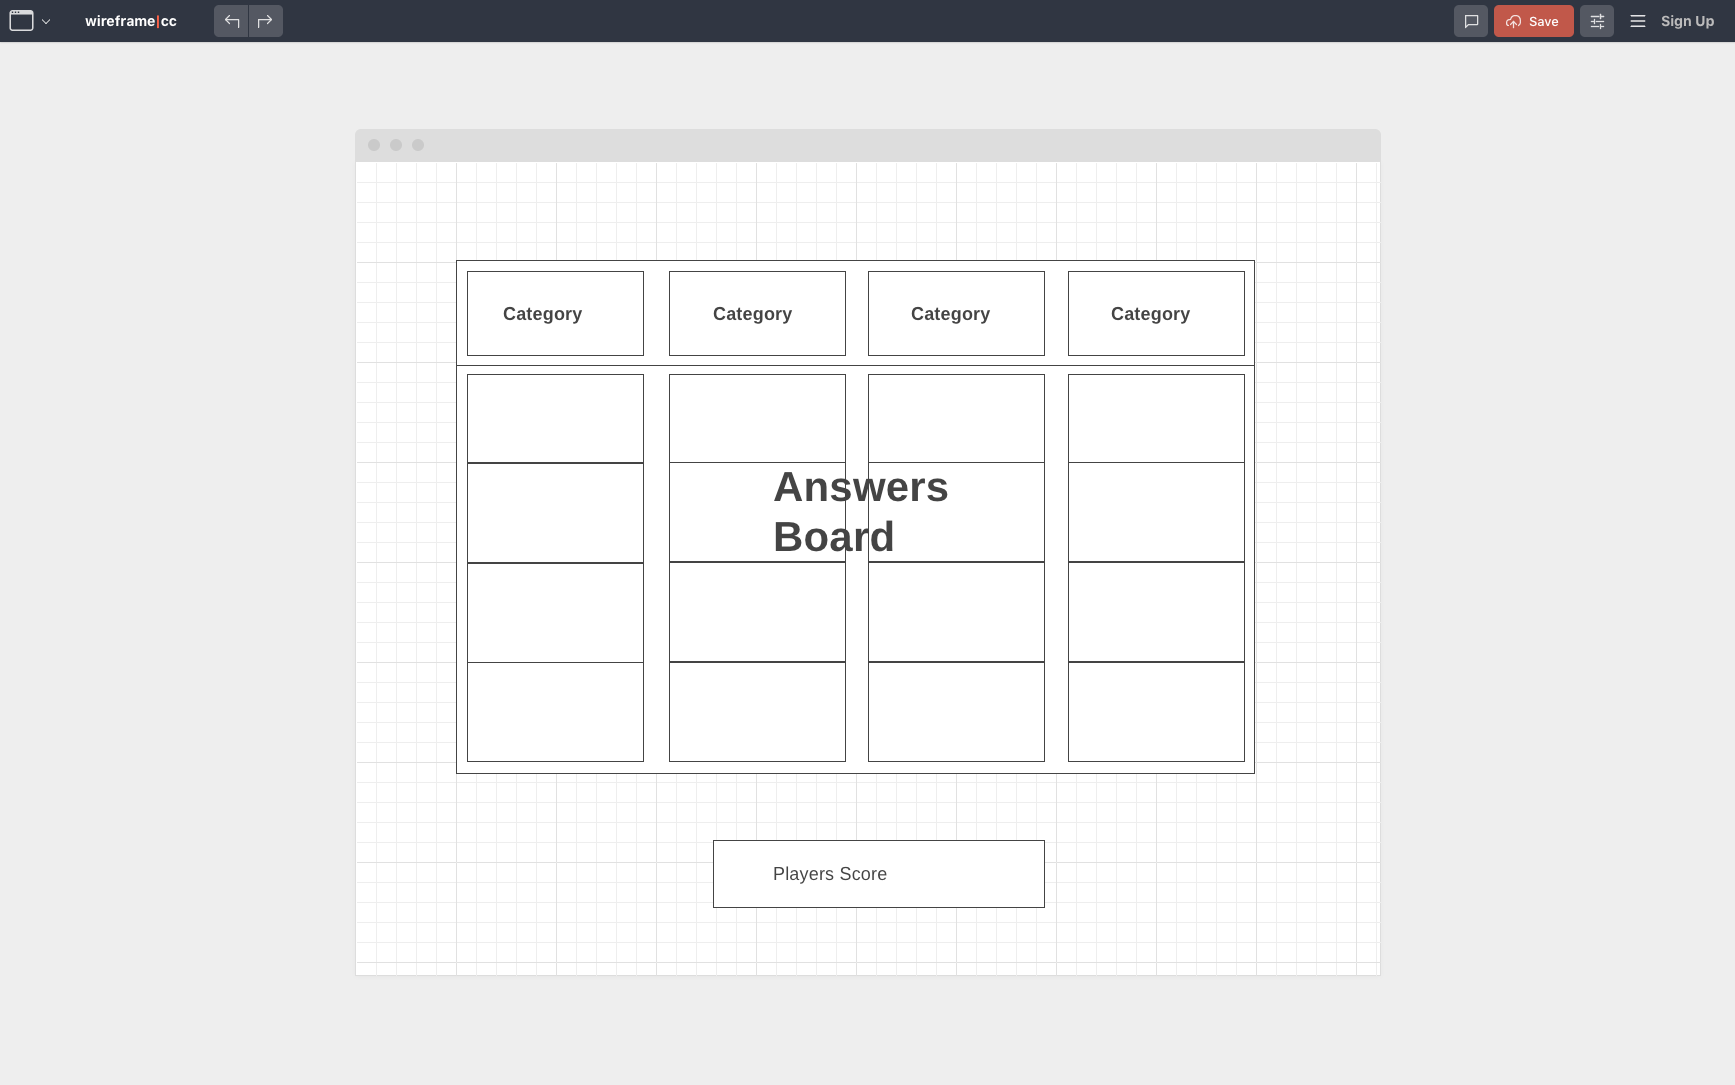
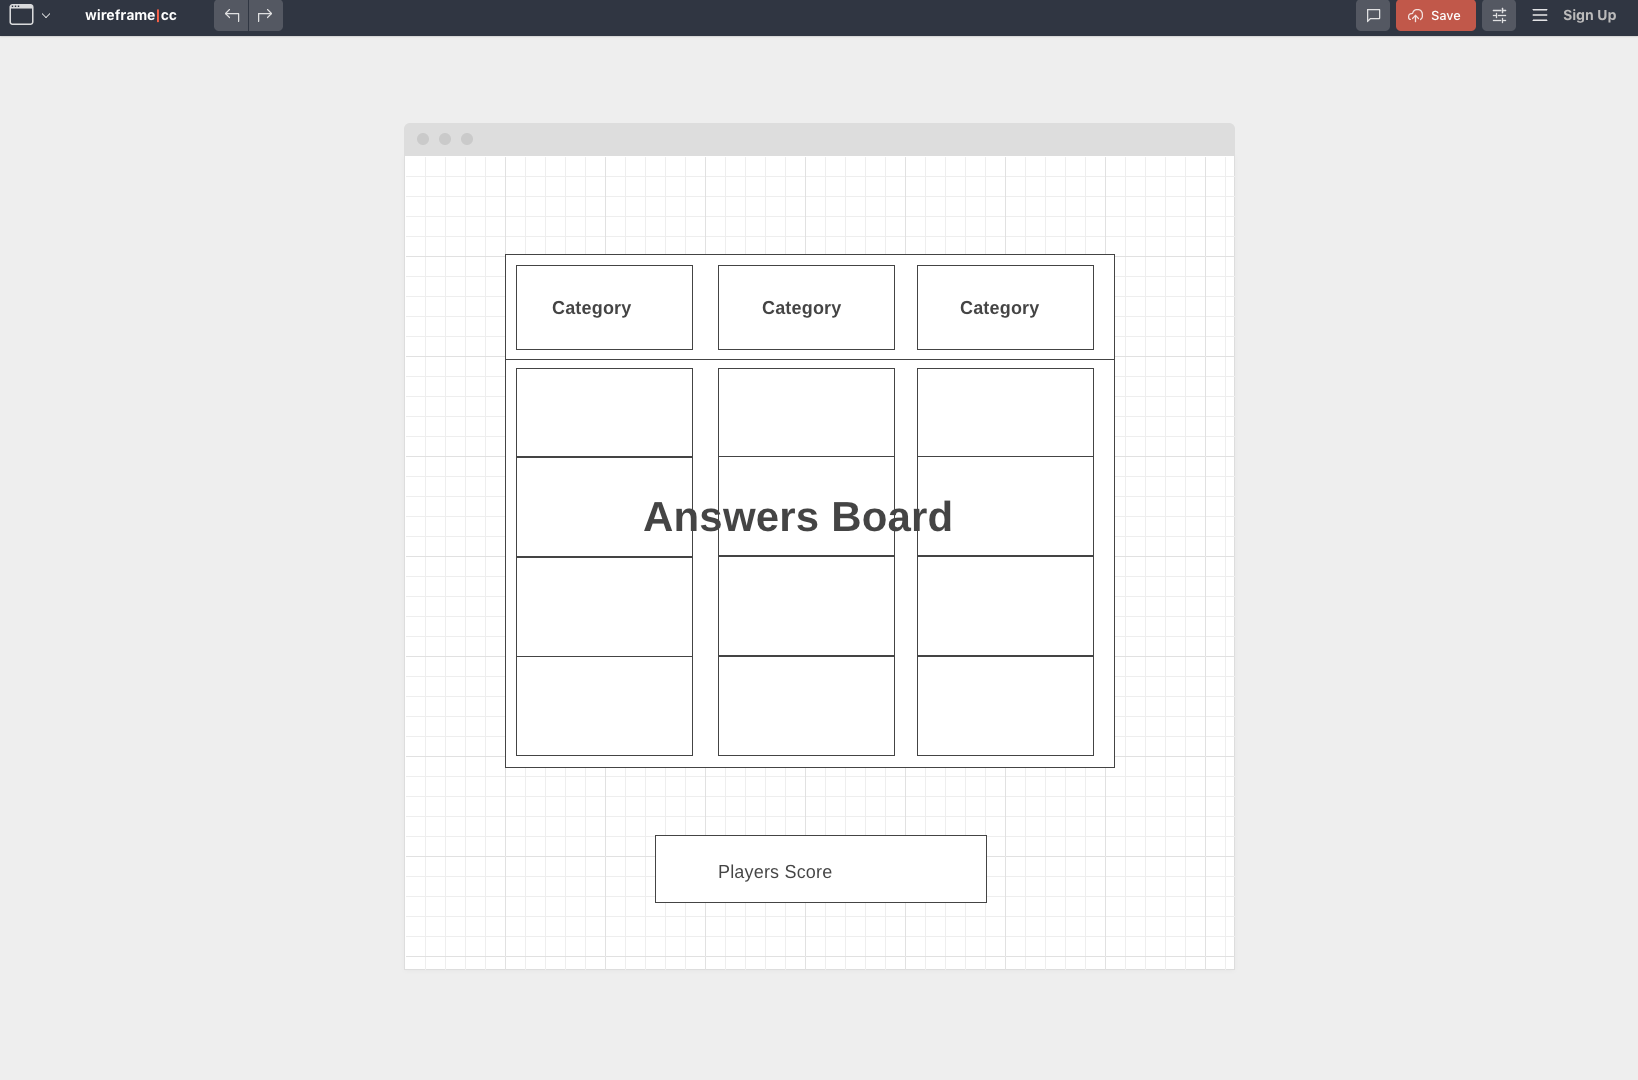
updated gameboard mock image, updated bronze version

diff --git a/README.md b/README.md
@@ -44,7 +44,7 @@ I used a free program Wireframe.cc to create my wireframes. This is to get an id
 I created a [Trello Board](https://trello.com/b/zqiH9Ljg/ga-project-1-trivia-game) to keep my planning organized with the project tasks, reference links, and due dates. Thanks to my Instructor Assistant for the suggestion, Esin Saribudak :purple_heart:
 
 **Bronze version**
-- [x] 4 categories
+- [x] 3 categories
 - [ ] 4 answers each category
 - [ ] Multiple choice questions
 - [ ] Score keeping
